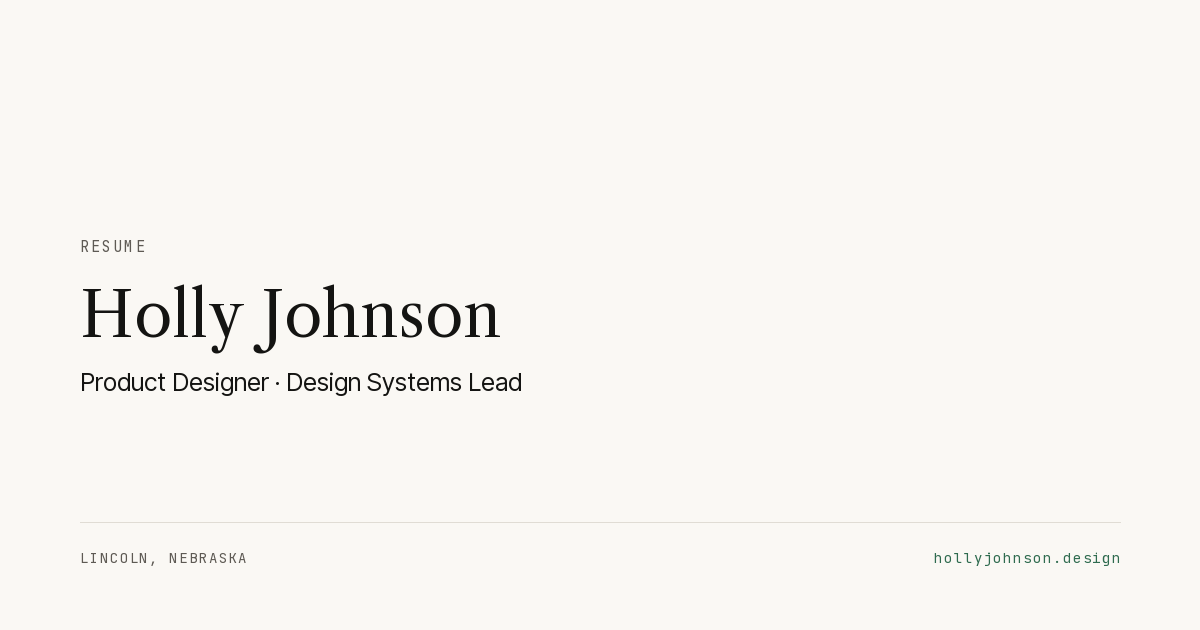
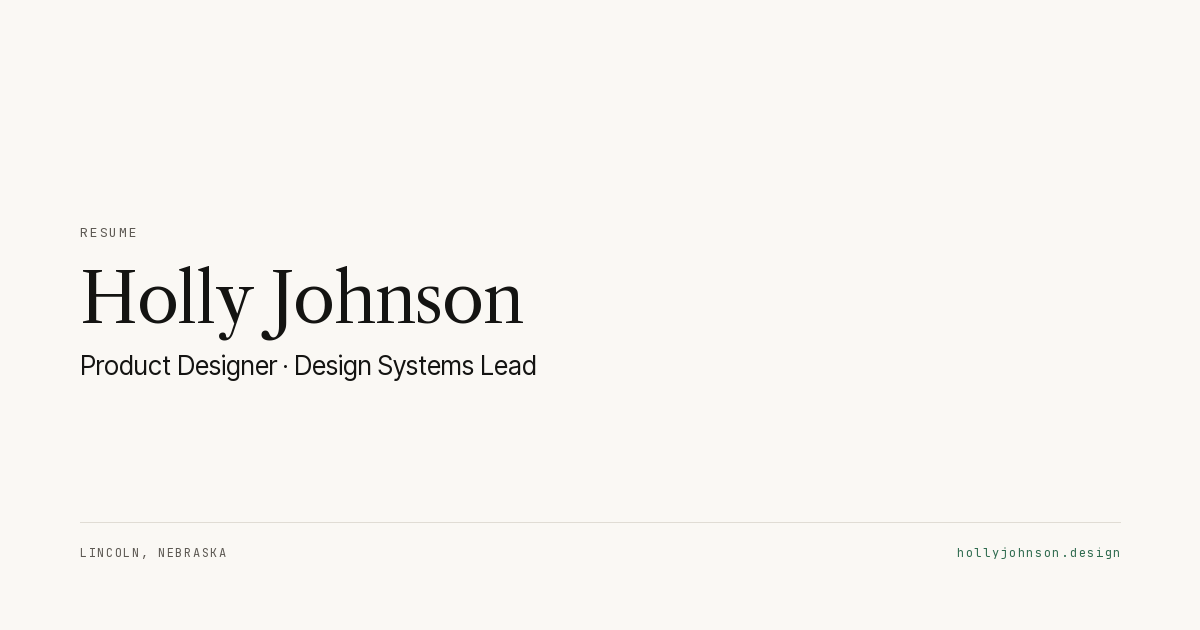
Rebuild the Open Graph cards on the site's measured type
The generator had its own type scale instead of the site's, so every value
was near a token without being one: 62px titles with no tracking, 15px
kickers, 30px stat numbers, stats one per row.

Type now comes from styles.css and the hero templates. Lines are placed on
CSS line boxes and drawn from the baseline rather than stacked by adding a
number to the font size. Leading was measured in the browser at 1200px: a
bare type step inherits 1.5, not the font's own ascent plus descent, which
had every mono label 2.5px short. Title leading is per page, 1.05 on the
case studies, 1.14 on home, 1.1 on about and resume.

The hero block is measured first and centred between the wordmark and the
footer rule, so a one-line card sits in the middle of its field instead of
floating. Stat captions wrap inside their column and the rail's rule stops
with its content.

Checked against the live Helios hero, ink to ink: kicker to title 27.5px
against 27.0 on the page, title to subhead 28.0 against 29.5.

diff --git a/scripts/generate_social_cards.py b/scripts/generate_social_cards.py
@@ -10,6 +10,15 @@ page's hero changes, change it here too and re-run.
 Fonts are the real ones the site loads, cached in scripts/.fonts on first run
 (git-ignored). Rendering with Arial instead is what made the previous set look
 like a different website.
+
+Type is the site's, not an approximation of it. The card canvas is 1200px and
+the site's content column is max-w-6xl, so the case-study hero's px values carry
+over one to one: text-label-lg kicker at 0.14em, text-display title at
+leading-[1.05] and tracking-[-0.02em], text-hero subhead at leading-[1.3].
+Every size, leading, tracking and color below cites the token or the utility it
+comes from. Lines are placed on CSS line boxes and drawn from the baseline, the
+way a browser does it, because stacking ascender boxes by eye is what made the
+spacing look arbitrary.
 """
 
 from __future__ import annotations
@@ -30,6 +39,29 @@ FOREGROUND = "#141412"
 MUTED = "#5E5A54"
 BORDER = "#E0DCD4"
 PRIMARY = "#2F6B4F"
+
+# Type steps, straight from styles.css. The name is the token name.
+TEXT_CAPTION = 11
+TEXT_LABEL_SM = 12
+TEXT_LABEL = 12
+TEXT_LABEL_LG = 13
+TEXT_SM = 16
+TEXT_WORDMARK = 18
+TEXT_HERO = 26
+TEXT_3XL = 38
+TEXT_DISPLAY = 68
+
+# A type step that sets font-size alone inherits Tailwind's 1.5, which is what
+# the rendered page reports for every mono label: 13px kicker on a 19.5px line
+# box, 11px caption on 16.5. Measured in the browser, not assumed, because the
+# font's own ascent plus descent is 2.5px shorter and everything under a label
+# then sits high.
+DEFAULT_LEADING = 1.5
+
+# Tailwind spacing, in px, as the hero templates use it.
+MT_1_5, MT_2, MT_3, MT_4, MT_5 = 6, 8, 12, 16, 20
+GAP_3 = 12
+GAP_5, GAP_X_6, GAP_Y_7, GAP_16, PL_7 = 20, 24, 28, 64, 28
 
 ROOT = Path(__file__).parents[1]
 FONT_DIR = Path(__file__).parent / ".fonts"
@@ -83,27 +115,58 @@ def mono(size: int) -> ImageFont.FreeTypeFont:
     return font("JetBrainsMono-Regular", size)
 
 
-def tracked(
-    draw: ImageDraw.ImageDraw,
-    xy: tuple[int, int],
-    text: str,
-    fill: str,
-    typeface: ImageFont.FreeTypeFont,
-    tracking: float,
-    anchor_right: int | None = None,
-) -> None:
-    """Draw text with letter-spacing, which Pillow has no setting for.
+def metrics(typeface: ImageFont.FreeTypeFont, size: int, leading: float | None):
+    """CSS line box for one line: its height, and the baseline inside it.
 
-    The site's mono labels carry tracking-[0.08em] to tracking-[0.14em]; without
-    it they read as code rather than as a label.
+    A browser builds the box from font-size x line-height, then centres the
+    font's own ascent and descent in it. `leading=None` is line-height: normal,
+    which is the font's natural ascent plus descent.
     """
-    x, y = xy
+    ascent, descent = typeface.getmetrics()
+    natural = ascent + descent
+    height = round(size * (DEFAULT_LEADING if leading is None else leading))
+    return height, (height - natural) / 2 + ascent
+
+
+def draw_line(
+    draw: ImageDraw.ImageDraw,
+    x: int,
+    top: float,
+    text: str,
+    typeface: ImageFont.FreeTypeFont,
+    size: int,
+    fill: str,
+    leading: float | None = None,
+    tracking: float = 0.0,
+    anchor_right: int | None = None,
+) -> float:
+    """Draw one line into its line box and return the bottom of that box.
+
+    `tracking` is in em, the way the templates write it, and Pillow has no
+    setting for it, so a tracked line is drawn a character at a time. The site's
+    display type carries tracking-[-0.02em] and its mono labels carry 0.08em to
+    0.14em; without either, the card reads as a different typeface.
+    """
+    height, baseline = metrics(typeface, size, leading)
+    y = top + baseline
+    space = tracking * size
+
+    if not space and anchor_right is None:
+        draw.text((x, y), text, fill=fill, font=typeface, anchor="ls")
+        return top + height
+
     if anchor_right is not None:
-        width = sum(typeface.getlength(ch) + tracking for ch in text) - tracking
-        x = anchor_right - int(width)
+        width = sum(typeface.getlength(ch) + space for ch in text) - space
+        x = anchor_right - round(width)
     for ch in text:
-        draw.text((x, y), ch, fill=fill, font=typeface)
-        x += typeface.getlength(ch) + tracking
+        draw.text((x, y), ch, fill=fill, font=typeface, anchor="ls")
+        x += typeface.getlength(ch) + space
+    return top + height
+
+
+def line_width(typeface: ImageFont.FreeTypeFont, size: int, text: str, tracking: float) -> float:
+    space = tracking * size
+    return sum(typeface.getlength(ch) + space for ch in text) - (space if text else 0)
 
 
 def wrap(text: str, typeface: ImageFont.FreeTypeFont, width: int) -> list[str]:
@@ -121,34 +184,80 @@ def wrap(text: str, typeface: ImageFont.FreeTypeFont, width: int) -> list[str]:
     return lines
 
 
-RAIL_X = 844
-RAIL_RULE_X = 812
+# The hero's side rail: lg:grid-cols-[minmax(0,1fr)_300px] with gap-16, and the
+# rail itself is border-l with pl-7.
+RAIL_COLUMN = 300
+RAIL_RULE_X = WIDTH - MARGIN - RAIL_COLUMN
+RAIL_X = RAIL_RULE_X + PL_7
 RAIL_WIDTH = WIDTH - MARGIN - RAIL_X
 
+RULE_Y = 522
+WORDMARK_TOP = 56
 
-def stats_rail(draw: ImageDraw.ImageDraw, stats: list[tuple[str, str]]) -> None:
-    """The case-study hero's stat block, stacked one per row.
+# The hero block is centred in the field between the wordmark and the footer
+# rule, so a one-line card and a three-line card both sit in the middle of the
+# space they have. A fixed top left short cards floating; hanging them off the
+# rule pushed them low.
+FIELD_TOP = WORDMARK_TOP + round(TEXT_WORDMARK * DEFAULT_LEADING)
 
-    The page sets these two-up. A card is read at thumbnail size and some
-    captions run to two words, so they are stacked here and the caption sits
-    beside the number rather than under it.
+
+def tracked_wrap(text: str, typeface: ImageFont.FreeTypeFont, size: int, tracking: float, width: int) -> list[str]:
+    """Wrap on the tracked width, since letter-spacing is part of the measure."""
+    lines: list[str] = []
+    line = ""
+    for word in text.split():
+        candidate = f"{line} {word}".strip()
+        if line_width(typeface, size, candidate, tracking) <= width or not line:
+            line = candidate
+        else:
+            lines.append(line)
+            line = word
+    if line:
+        lines.append(line)
+    return lines
+
+
+def stats_rail(draw: ImageDraw.ImageDraw, stats: list[tuple[str, str]], hero_top: float) -> float:
+    """The hero's stat block: dl grid-cols-2, gap-x-6 gap-y-7.
+
+    Serif number at text-3xl leading-none, mono caption at text-caption beneath
+    it with mt-2 and tracking-[0.1em], exactly as the case-study heroes set it.
+    A caption longer than its column wraps rather than running into the next
+    one, which is what the grid does on the page.
     """
-    caption_x = RAIL_X + 84
-    for index, (value, label) in enumerate(stats):
-        y = 240 + index * 57
-        draw.text((RAIL_X, y), value, fill=FOREGROUND, font=serif(30))
-        tracked(draw, (caption_x, y + 14), label.upper(), MUTED, mono(11), 1.3)
+    column = (RAIL_WIDTH - GAP_X_6) // 2
+    caption = mono(TEXT_CAPTION)
+    caption_box = metrics(caption, TEXT_CAPTION, None)[0]
+    number_box = metrics(serif(TEXT_3XL), TEXT_3XL, 1.0)[0]
+
+    rows = [stats[i : i + 2] for i in range(0, len(stats), 2)]
+    top = hero_top + 4
+    for row in rows:
+        wrapped = [tracked_wrap(label.upper(), caption, TEXT_CAPTION, 0.1, column) for _, label in row]
+        for index, (value, _) in enumerate(row):
+            x = RAIL_X + index * (column + GAP_X_6)
+            y = draw_line(draw, x, top, value, serif(TEXT_3XL), TEXT_3XL, FOREGROUND, leading=1.0) + MT_2
+            for line in wrapped[index]:
+                y = draw_line(draw, x, y, line, caption, TEXT_CAPTION, MUTED, tracking=0.1)
+        top += number_box + MT_2 + max(len(w) for w in wrapped) * caption_box + GAP_Y_7
+    return top - GAP_Y_7
 
 
-def terms_rail(draw: ImageDraw.ImageDraw, terms: list[tuple[str, str]]) -> None:
-    """The research hero's rail: mono term, sans definition beneath."""
-    y = 236
+def terms_rail(draw: ImageDraw.ImageDraw, terms: list[tuple[str, str]], hero_top: float) -> float:
+    """The research hero's rail: mono term at text-label-sm, text-sm beneath.
+
+    Spacing is the template's: mt-1.5 under the term, gap-5 between groups.
+    """
+    top = hero_top + 4
     for term, definition in terms:
-        tracked(draw, (RAIL_X, y), term.upper(), MUTED, mono(12), 1.4)
-        for line in wrap(definition, sans(18), RAIL_WIDTH):
-            y += 26
-            draw.text((RAIL_X, y), line, fill=FOREGROUND, font=sans(18))
-        y += 52
+        top = draw_line(
+            draw, RAIL_X, top, term.upper(), mono(TEXT_LABEL_SM), TEXT_LABEL_SM, MUTED, tracking=0.14
+        )
+        top += MT_1_5
+        for line in wrap(definition, sans(TEXT_SM), RAIL_WIDTH):
+            top = draw_line(draw, RAIL_X, top, line, sans(TEXT_SM), TEXT_SM, FOREGROUND, leading=1.625)
+        top += GAP_5
+    return top - GAP_5
 
 
 def card(
@@ -157,7 +266,11 @@ def card(
     title: list[str],
     subhead: str,
     footer: str,
-    title_size: int = 62,
+    title_size: int = TEXT_DISPLAY,
+    title_leading: float = 1.05,
+    kicker_tracking: float = 0.14,
+    kicker_gap: int = MT_5,
+    subhead_gap: int = MT_3,
     stats: list[tuple[str, str]] | None = None,
     terms: list[tuple[str, str]] | None = None,
     wordmark: bool = True,
@@ -166,47 +279,91 @@ def card(
     draw = ImageDraw.Draw(image)
 
     has_rail = bool(stats or terms)
-    column = (RAIL_RULE_X - 36 - MARGIN) if has_rail else (WIDTH - 2 * MARGIN)
+    column = (RAIL_RULE_X - GAP_16 - MARGIN) if has_rail else (WIDTH - 2 * MARGIN)
 
-    # Wordmark, the same serif lockup the site's nav uses. The resume card's
-    # title is already her name, and the card should not say it twice.
+    # Wordmark, the nav's own lockup: font-serif text-wordmark tracking-[-0.01em].
+    # The resume card's title is already her name, so it would say it twice.
     if wordmark:
-        draw.text((MARGIN, 60), "Holly Johnson", fill=FOREGROUND, font=serif(25))
+        draw_line(
+            draw,
+            MARGIN,
+            WORDMARK_TOP,
+            "Holly Johnson",
+            serif(TEXT_WORDMARK),
+            TEXT_WORDMARK,
+            FOREGROUND,
+            tracking=-0.01,
+        )
 
-    tracked(draw, (MARGIN, 236), kicker.upper(), MUTED, mono(15), 2.1)
+    # Measure the block before drawing any of it, so it can hang off the rule.
+    kicker_box = metrics(mono(TEXT_LABEL_LG), TEXT_LABEL_LG, None)[0]
+    title_box = metrics(serif(title_size), title_size, title_leading)[0]
+    subhead_lines = wrap(subhead, sans(TEXT_HERO), column)
+    subhead_box = metrics(sans(TEXT_HERO), TEXT_HERO, 1.3)[0]
+    block = (
+        kicker_box
+        + kicker_gap
+        + len(title) * title_box
+        + subhead_gap
+        + len(subhead_lines) * subhead_box
+    )
+    hero_top = FIELD_TOP + (RULE_Y - FIELD_TOP - block) / 2
+    if hero_top < FIELD_TOP:
+        raise SystemExit(f"{name}: the text block is taller than the field it sits in")
 
-    y = 276
+    # Hero: kicker, then the title, then the subhead, at each page's own gaps.
+    top = draw_line(
+        draw,
+        MARGIN,
+        hero_top,
+        kicker.upper(),
+        mono(TEXT_LABEL_LG),
+        TEXT_LABEL_LG,
+        MUTED,
+        tracking=kicker_tracking,
+    )
+    top += kicker_gap
+
     for line in title:
-        if serif(title_size).getlength(line) > column:
+        if line_width(serif(title_size), title_size, line, -0.02) > column:
             raise SystemExit(f"{name}: title line does not fit the column: {line!r}")
-        draw.text((MARGIN, y), line, fill=FOREGROUND, font=serif(title_size))
-        y += title_size + 14
+        top = draw_line(
+            draw,
+            MARGIN,
+            top,
+            line,
+            serif(title_size),
+            title_size,
+            FOREGROUND,
+            leading=title_leading,
+            tracking=-0.02,
+        )
+    top += subhead_gap
 
-    for line in wrap(subhead, sans(25), column):
-        y += 40
-        draw.text((MARGIN, y - 26), line, fill=FOREGROUND, font=sans(25))
+    for line in subhead_lines:
+        top = draw_line(draw, MARGIN, top, line, sans(TEXT_HERO), TEXT_HERO, FOREGROUND, leading=1.3)
 
-    if y > 500:
-        raise SystemExit(f"{name}: the text block runs into the footer rule")
-
-    if has_rail:
-        # The hero rail's border-l, at the same hairline weight as the footer rule.
-        draw.line((RAIL_RULE_X, 232, RAIL_RULE_X, 470), fill=BORDER, width=1)
     if stats:
-        stats_rail(draw, stats)
-    if terms:
-        terms_rail(draw, terms)
+        rail_bottom = stats_rail(draw, stats, hero_top)
+    elif terms:
+        rail_bottom = terms_rail(draw, terms, hero_top)
+    if has_rail:
+        # The hero rail's border-l, at the same hairline weight as the footer
+        # rule. It runs the height of the rail's own content, nothing further.
+        draw.line((RAIL_RULE_X, round(hero_top), RAIL_RULE_X, round(rail_bottom)), fill=BORDER, width=1)
 
     # Mono label over a hairline rule, the site's section-label convention.
-    draw.line((MARGIN, 522, WIDTH - MARGIN, 522), fill=BORDER, width=1)
-    tracked(draw, (MARGIN, 548), footer.upper(), MUTED, mono(14), 1.9)
-    tracked(
+    draw.line((MARGIN, RULE_Y, WIDTH - MARGIN, RULE_Y), fill=BORDER, width=1)
+    draw_line(draw, MARGIN, 544, footer.upper(), mono(TEXT_LABEL), TEXT_LABEL, MUTED, tracking=0.14)
+    draw_line(
         draw,
-        (0, 548),
+        0,
+        544,
         "hollyjohnson.design",
+        mono(TEXT_LABEL),
+        TEXT_LABEL,
         PRIMARY,
-        mono(14),
-        1.9,
+        tracking=0.14,
         anchor_right=WIDTH - MARGIN,
     )
 
@@ -223,6 +380,10 @@ CARDS = [
         title=["I work on the seam between", "design and engineering."],
         subhead="Product designer who writes the code too.",
         footer="Portfolio",
+        title_leading=1.14,
+        kicker_tracking=0.08,
+        kicker_gap=GAP_3,
+        subhead_gap=MT_4,
     ),
     dict(
         name="helios.png",
@@ -282,6 +443,7 @@ CARDS = [
         subhead="Holly Johnson · Senior Product Designer & Design Systems Lead",
         footer="Portfolio",
         title_size=52,
+        title_leading=1.1,
         wordmark=False,
     ),
     dict(
@@ -290,6 +452,7 @@ CARDS = [
         title=["Holly Johnson"],
         subhead="Product Designer · Design Systems Lead",
         footer="Lincoln, Nebraska",
+        title_leading=1.1,
         wordmark=False,
     ),
 ]
